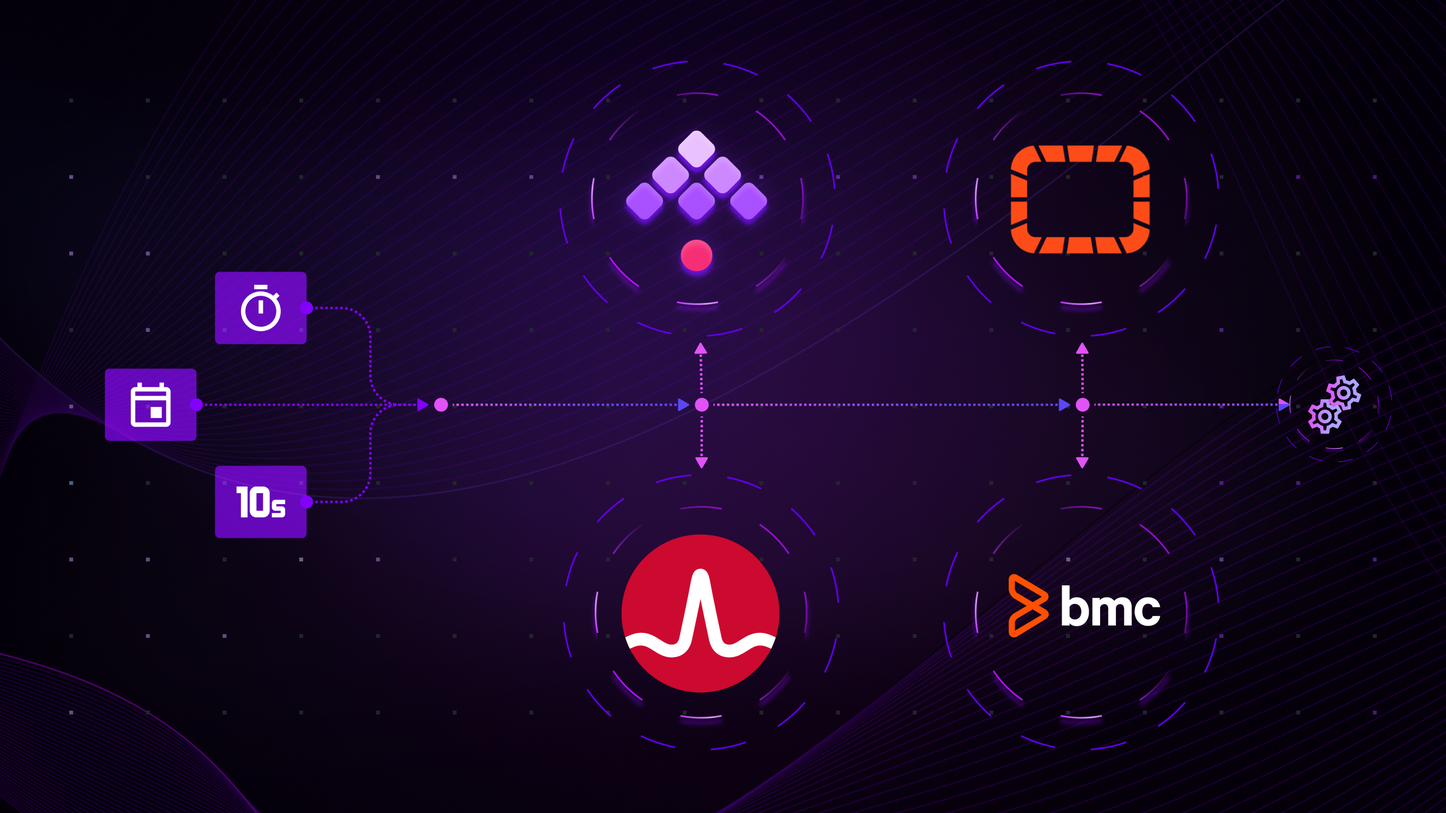
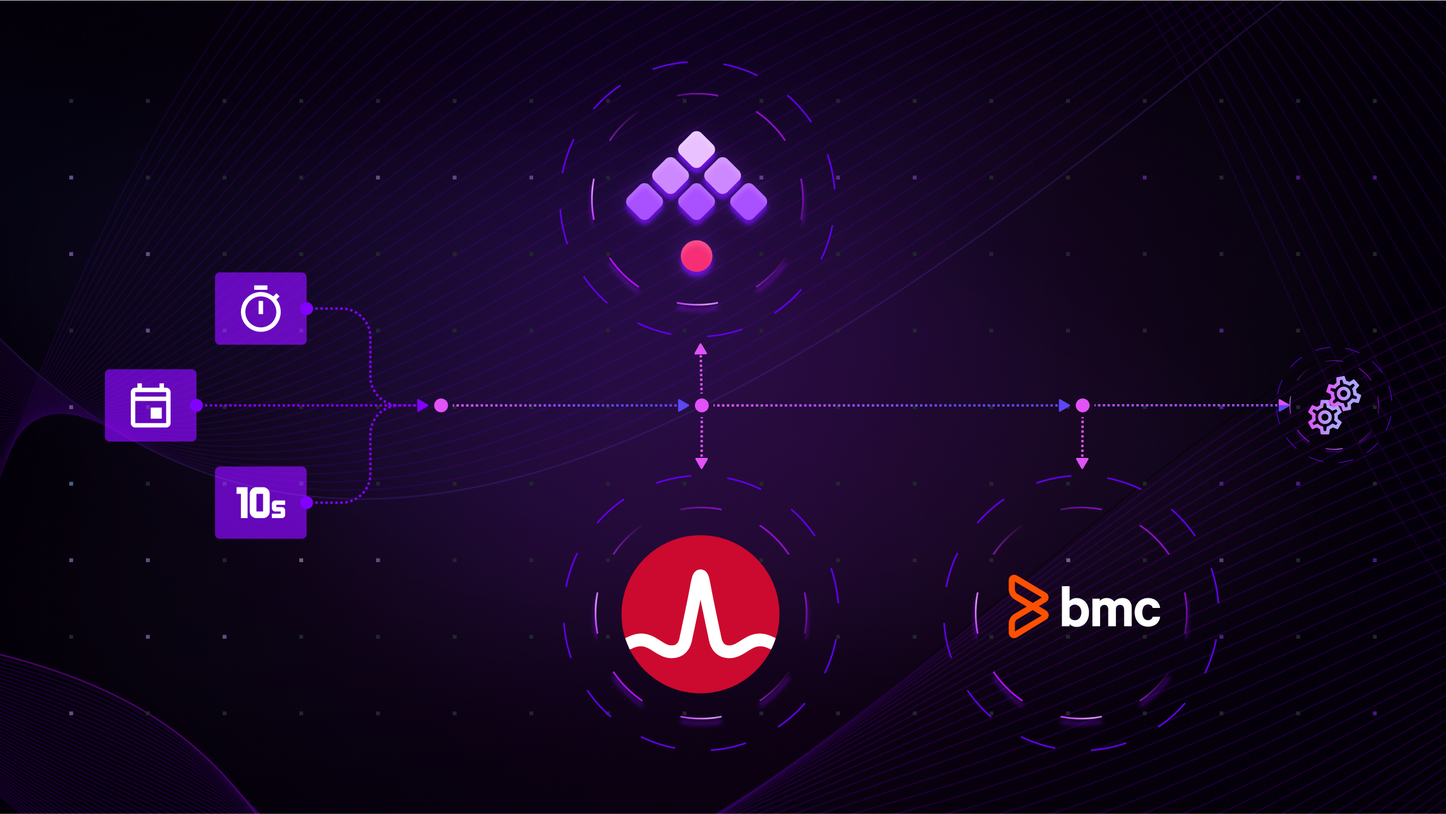
update schedulers

Changed region(s): [[0.0, 0.9956, 1.0, 1.0], [0.6875, 0.1556, 0.8125, 0.3733], [0.7188, 0.3733, 0.7812, 0.4044]]

diff --git a/content/blogs/2023-10-17-schedulers-landscape.md b/content/blogs/2023-10-17-schedulers-landscape.md
@@ -1,5 +1,5 @@
 ---
-title: "DollarU, OpCon, Control-M vs. Kestra — how to choose the right scheduling platform"
+title: "DollarU, Control-M, Kestra — how to choose the right scheduling platform"
 description: "How the scheduling landscape has evolved in the last decade? Learn more about the differences between traditional schedulers and tools, such as Kestra, providing a more modern approach to orchestration and scheduling."
 date: 2023-10-17T17:00:00
 category: Solutions
@@ -43,38 +43,6 @@ There are areas where the product shows its age, particularly when compared to m
 **Inflexibility in Dynamic Scaling**: Although Dollar Universe offers a range of scalability features, they are optimized for more static on-prem enterprise environments. In contrast, modern applications expect the platform to adapt to cloud-based infrastructure requirements, dynamically allocating or deallocating resources as needed.
 
 **Limited Real-Time Monitoring Capabilities**: While the tool does offer some form of real-time monitoring, it is not as comprehensive as newer platforms. For instance, it may not offer the depth of metrics or insights into the system's state, which could be crucial for complex, multi-layered workflows.
-
----
-
-## OpCon
-
-[OpCon](https://smatechnologies.com/products-opcon-automation), developed by SMA Technologies, is another industry veteran in the automation and scheduling sector. Engineered with a focus on both small businesses and large enterprises, OpCon aims to simplify complex operational workflows.
-
-### Core Automation Features
-
-**Self-Service scheduler**: Users can build, initiate, and manage workflows without any specialized training.
-
-**Disaster Recovery:** OpCon includes robust disaster recovery features, offering automated failover mechanisms to ensure minimal service disruption. This is particularly beneficial for mission-critical applications that require high availability.
-
-### API Integration Layer
-
-Similar to Dollar Universe, OpCon also incorporates an extensive API framework. However, it goes a step further by offering native integrations with popular third-party applications like ServiceNow, Salesforce, and more. Its API framework allows for both inbound and outbound integrations.
-
-The API set supports both RESTful and SOAP web services. These APIs can facilitate everything from simple task initiation to complex, multi-step workflows involving various departments and systems.
-
-### How it works
-
-OpCon employs a strategy of conditional logic in its scheduling, which allows workflows to adapt based on real-world events. It also supports multiple types of job triggers, including time-based, file-based, and database change-based.
-
-### Where It Falls Short
-
-Despite its powerful feature set, OpCon is not without its shortcomings:
-
-**Resource Intensiveness**: OpCon's architecture can sometimes require substantial system resources, making it less ideal for smaller environments or cloud-native applications that demand lightweight solutions.
-
-**No Native Support for Modern DevOps Practices:** As a tool that’s been around for a while, OpCon lacks out-of-the-box support for modern DevOps practices like containerization and Infrastructure as Code (IaC), which are becoming industry standards.
-
-While OpCon offers a feature-rich and flexible scheduling solution, it still leans towards traditional IT environments and could benefit from updates to better support modern DevOps practices and cloud-native applications.
 
 ---
 
@@ -186,7 +154,7 @@ The examples above show how Kestra allows you to keep the entire scheduling logi
 
 ## What's Next
 
-As we've seen, the right tool for your scheduling needs depends on a variety of factors, from the scale and complexity of your tasks to the architecture of your system. While traditional tools like Dollar Universe and OpCon have many useful features, Kestra provides more flexibility and brings Infrastructure as Code best practices to all scheduled and event-driven workflows.
+As we've seen, the right tool for your scheduling needs depends on a variety of factors, from the scale and complexity of your tasks to the architecture of your system. While traditional tools like Dollar Universe have many useful features, Kestra provides more flexibility and brings Infrastructure as Code best practices to all scheduled and event-driven workflows.
 
 Join the [Slack community](https://kestra.io/slack) if you have any questions or need assistance. Follow us on [Twitter](https://twitter.com/kestra_io) for the latest news. Check the code in our [GitHub repository](https://github.com/kestra-io/kestra) and give us a star if you like the project.
 
